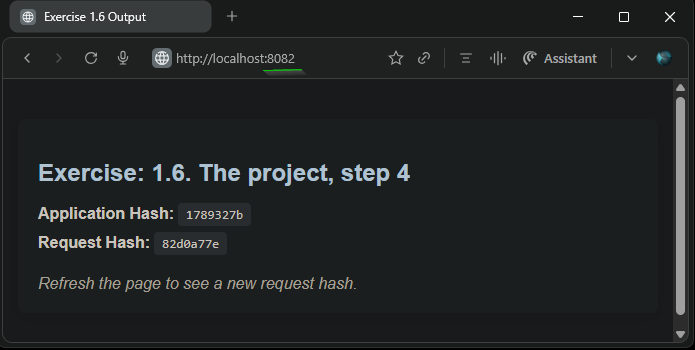
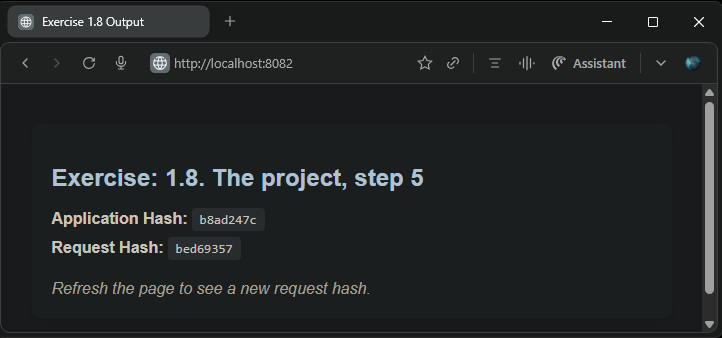
Code for Exercise 1.8. The project, step 5

diff --git a/the_project/todo-app/main.py b/the_project/todo-app/main.py
@@ -19,7 +19,7 @@ def index() -> HTMLResponse:
 <html lang="en">
 <head>
   <meta charset="UTF-8" />
-  <title>Exercise 1.6 Output</title>
+  <title>Exercise 1.8 Output</title>
   <style>
     body {{
       font-family: Arial, sans-serif;
@@ -56,7 +56,7 @@ def index() -> HTMLResponse:
   </style>
 </head>
 <body>
-  <h2>Exercise: 1.6. The project, step 4</h2>
+  <h2>Exercise: 1.8. The project, step 5</h2>
 
   <div><span class="label">Application Hash:</span><span class="hash">{app_hash}</span></div>
   <div><span class="label">Request Hash:</span><span class="hash">{req_hash}</span></div>

diff --git a/the_project/README.md b/the_project/README.md
@@ -1,8 +1,11 @@
-## Exercise: 1.6. The project, step 4
+## Exercise: 1.8. The project, step 5
 ### Todo App Server Enhancements
 
-- Built upon the application from [Exercise: 1.5. The project, step 3](https://github.com/arkb2023/devops-kubernetes/tree/1.5/the_project)
-- Implemented NodePort service configuration [service.yaml](./todo-app/manifests/service.yaml) to enable external access to the Todo App server.
+- Built upon the application from [Exercise: 1.6. The project, step 4](https://github.com/arkb2023/devops-kubernetes/tree/1.6/the_project)
+- Implemented a [Ingress](./todo-app/manifests/ingress.yaml) resource to route requests with path prefix `/` to the `todo-app-svc` service on port `1234`.  
+- Modified the `todo-app-svc` [service](./todo-app/manifests/service.yaml) type to `ClusterIP` on port `1234`, directing traffic to the `todo-app` app container listening on port `3000`.  
+- **Result**: The `todo-app` app endpoint `/` is accessible externally at `http://localhost:8082/` via the ingress controller, which acts as a reverse proxy within the cluster.
+
 
 ### 1. **Directory and File Structure**
 ```
@@ -13,16 +16,24 @@ the_project
     ├── main.py
     └── manifests
         ├── deployment.yaml
+        ├── ingress.yaml
         └── service.yaml
 ```
 
 ***
 
 ### 2. Prerequisites
-- `Docker` `k3d` `kubectl` installed and `k3s-default` cluster running via `k3d`
+- `Docker` `k3d` `kubectl` installed
 
-> Used Docker image is published at:
-https://hub.docker.com/repository/docker/arkb2023/todo-app/tags/1.6.2
+
+
+### 3. Build and Push the Docker Image to DockerHub
+
+```bash
+docker build -t arkb2023/log-output:1.8.1 .
+docker push arkb2023/log-output:1.8.1
+```
+> Docker image published at: https://hub.docker.com/repository/docker/arkb2023/todo-app/tags/1.8.1
 
 ***
 
@@ -31,45 +42,66 @@ https://hub.docker.com/repository/docker/arkb2023/todo-app/tags/1.6.2
 **Creates a cluster**
 
 ```bash
-k3d cluster create --port 8082:30080@agent:0 -port 8081:80@loadbalancer --agents 2
+k3d cluster create --port 8082:80@loadbalancer --agents 2
 ```
 Where,  
 
-`--port 8082:30080@agent:0`: Exposes host port 8082 mapped to port 30080 on the first agent node, allowing access through `localhost:8082`.
+`-port 8082:80@loadbalancer`: Exposes host port 8082 mapped to the load balancer's port 80.
 
-`-port 8081:80@loadbalancer`: Exposes host port 8081 mapped to the load balancer's port 80.
+**Verify the loadbalancer port mappings**
 
-**Setup the deployment resource:**
 ```bash
-kubectl apply -f manifests/deployment.yaml
+docker port k3d-k3s-default-serverlb
 ```
-**Setup the service resource:**
+*Output*
+```text
+80/tcp -> 0.0.0.0:8082
+80/tcp -> [::]:8082
+6443/tcp -> 0.0.0.0:39245
+```
+
+**Apply the `Deployment` `Service` and `Ingress` Manifests**
 ```bash
-kubectl apply -f manifests/service.yaml
+kubectl create -f the_project/todo-app/manifests/
 ```
+*Output*
+```text
+deployment.apps/todo-app-dep created
+ingress.networking.k8s.io/dwk-todo-app-ingress created
+service/todo-app-svc created
+```
+
+**Verify that the manifests are operational**  
+```bash
+kubectl get deploy,svc,ing
+```
+*Output*
+```text
+NAME                           READY   UP-TO-DATE   AVAILABLE   AGE
+deployment.apps/todo-app-dep   0/1     1            0           13s
+
+NAME                   TYPE        CLUSTER-IP      EXTERNAL-IP   PORT(S)    AGE
+service/kubernetes     ClusterIP   10.43.0.1       <none>        443/TCP    13m
+service/todo-app-svc   ClusterIP   10.43.184.213   <none>        1234/TCP   13s
+
+NAME                                             CLASS     HOSTS   ADDRESS                            PORTS   AGE
+ingress.networking.k8s.io/dwk-todo-app-ingress   traefik   *       172.18.0.3,172.18.0.4,172.18.0.5   80      13s
+```
+
 **Ensure the pod is running and ready:**
+
 ```bash
 kubectl get pods
-```
 *Output*
 ```text
-NAME                            READY   STATUS        RESTARTS   AGE
-todo-app-dep-687cc89674-97k97   1/1     Running       0          23s
+NAME                            READY   STATUS    RESTARTS   AGE
+todo-app-dep-5d6b7f9d47-9m5cs   1/1     Running   0          17s
 ```
 
-**Verify service is accessible inside the cluster**
 
-```bash
-kubectl get service|egrep "todo|PORT"
-```
-*Output*
-```text
-NAME           TYPE        CLUSTER-IP      EXTERNAL-IP   PORT(S)          AGE
-todo-app-svc   NodePort    10.43.139.174   <none>        1234:30080/TCP   133m
-```
 **Inspect Pod Logs for Application Readiness**
 ```bash
-kubectl logs -f todo-app-dep-687cc89674-97k97
+kubectl logs -f todo-app-dep-5d6b7f9d47-9m5cs
 ```
 *Output*
 ```text
@@ -79,23 +111,41 @@ INFO:     Application startup complete.
 INFO:     Uvicorn running on http://0.0.0.0:3000 (Press CTRL+C to quit)
 Starting app on port 3000...
 App mode: Production
-Application hash: 1789327b
-INFO:     10.42.0.0:54792 - "GET / HTTP/1.1" 200 OK
+Application hash: b8ad247c
+INFO:     10.42.0.4:34948 - "GET / HTTP/1.1" 200 OK
 ```
 
 ***
 
-### 5. Verify Application Response 
-
-- Browser access via `http://localhost:8082`
-![Browser view](./images/01-browser-access-on-8082.png) 
+### 5. Verify Application Endpoint Response  
+Access the application endpoint in a browser at: `http://localhost:8082`  
+![Browser application endpoint accessible](./images/01-browser-access-on-8082.png) 
 
 
 ### 5. **Cleanup**
 
+**Delete the `Deployment` `Service` and `Ingress` Resources**  
 ```bash
-kubectl delete -f manifests/service.yaml
-kubectl delete -f manifests/deployment.yaml
-k3d cluster delete
+kubectl delete -f the_project/todo-app/manifests/
+```
+*Output*
+```text
+deployment.apps "todo-app-dep" deleted from default namespace
+ingress.networking.k8s.io "dwk-todo-app-ingress" deleted from default namespace
+service "todo-app-svc" deleted from default namespace
+```
+
+**Stop the k3d Cluster**  
+```bash
+k3d cluster delete k3s-default
+```
+*Output*
+```text
+INFO[0000] Deleting cluster 'k3s-default'
+INFO[0003] Deleting cluster network 'k3d-k3s-default'
+INFO[0003] Deleting 1 attached volumes...
+INFO[0003] Removing cluster details from default kubeconfig...
+INFO[0003] Removing standalone kubeconfig file (if there is one)...
+INFO[0003] Successfully deleted cluster k3s-default!
 ```
 ***

diff --git a/README.md b/README.md
@@ -11,3 +11,5 @@
 - [1.5.](https://github.com/arkb2023/devops-kubernetes/tree/1.5/the_project)  
 - [1.6.](https://github.com/arkb2023/devops-kubernetes/tree/1.6/the_project)  
 - [1.7.](https://github.com/arkb2023/devops-kubernetes/tree/1.7/log_output)  
+- [1.8.](https://github.com/arkb2023/devops-kubernetes/tree/1.8/the_project)  
+
